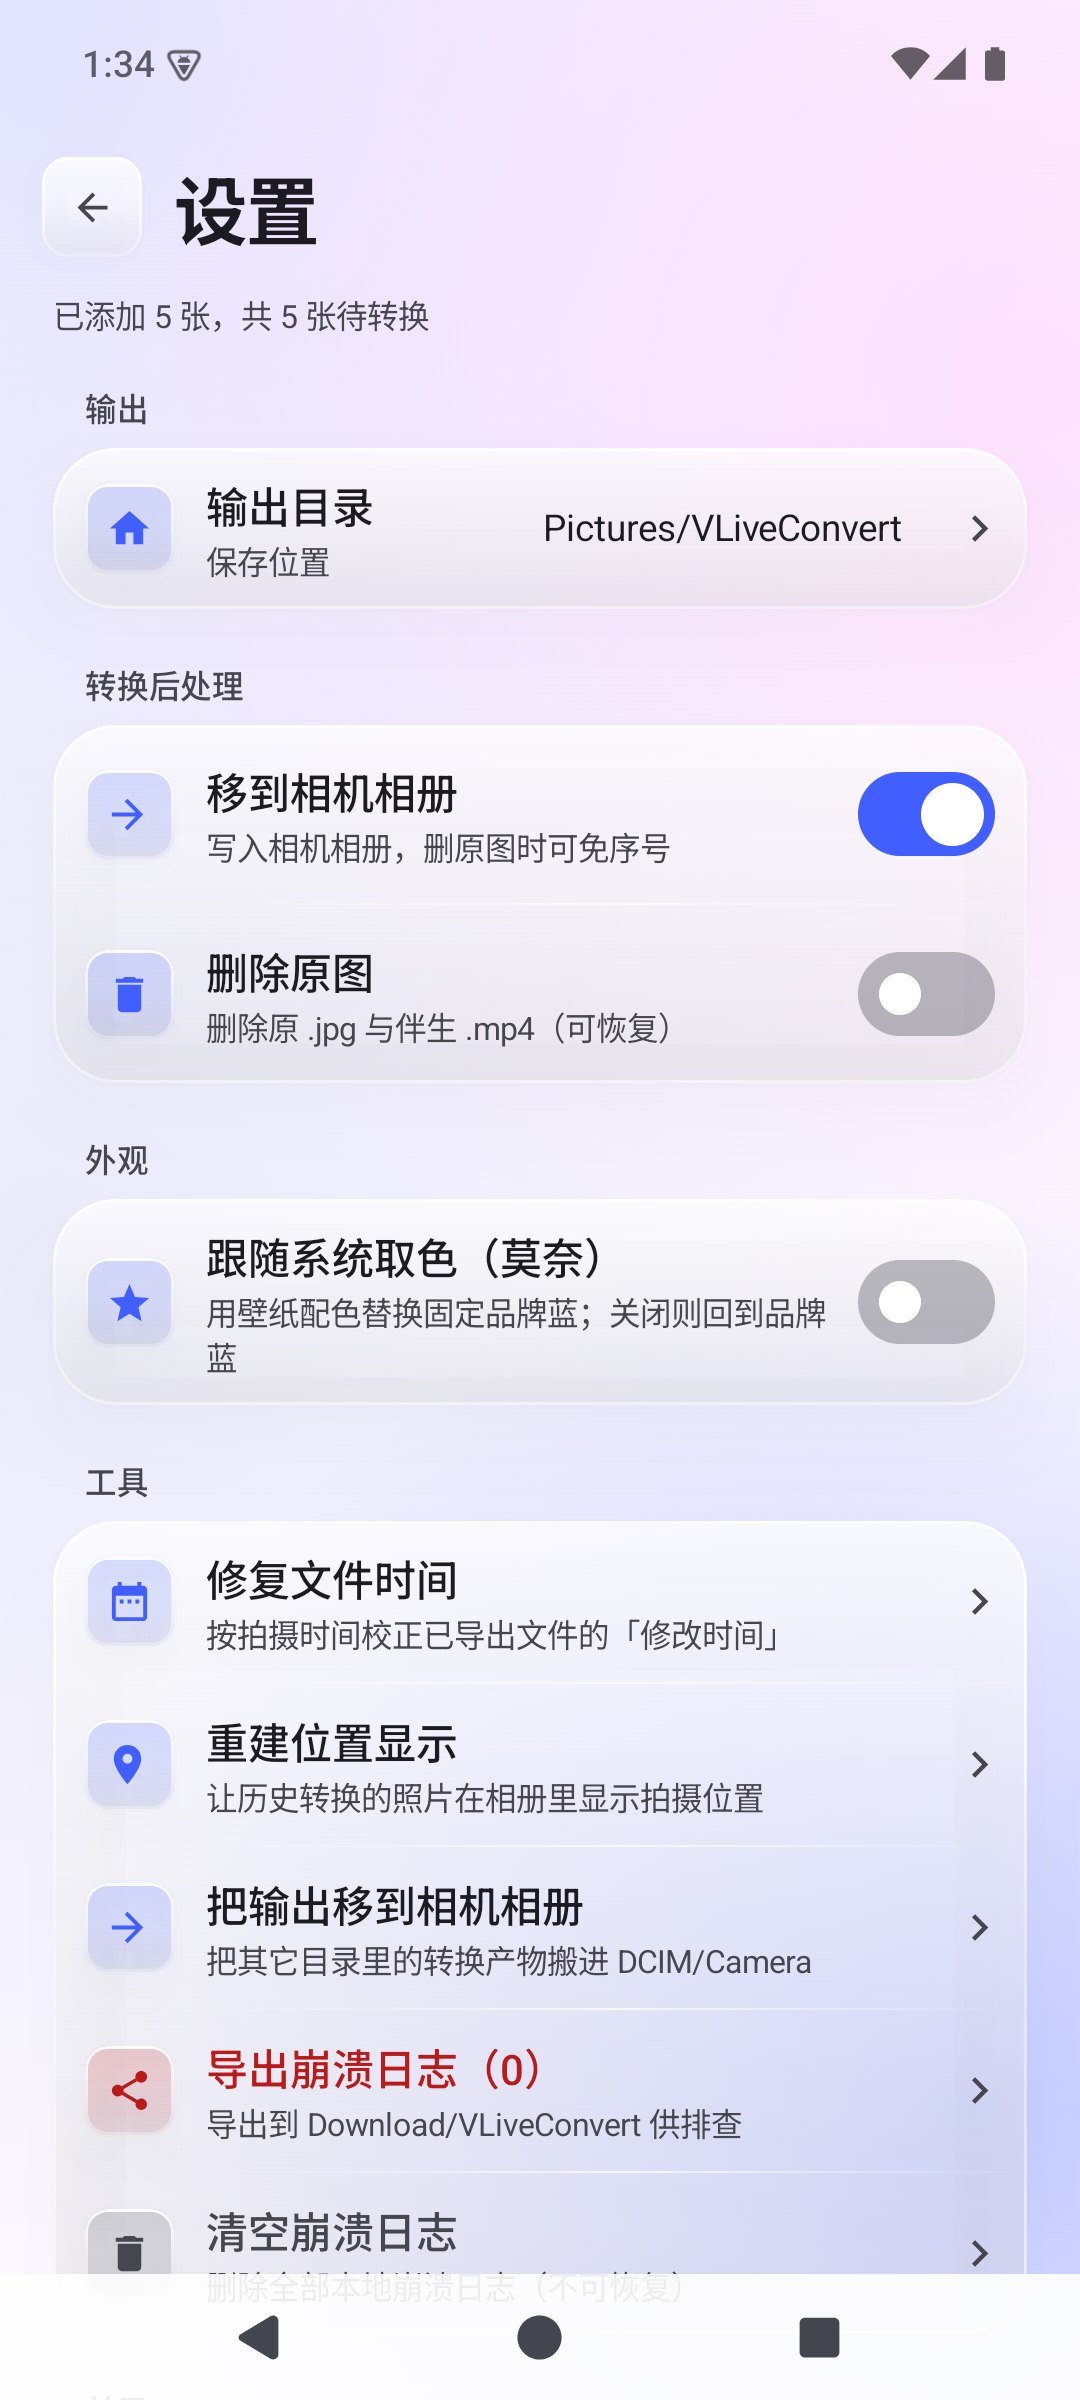
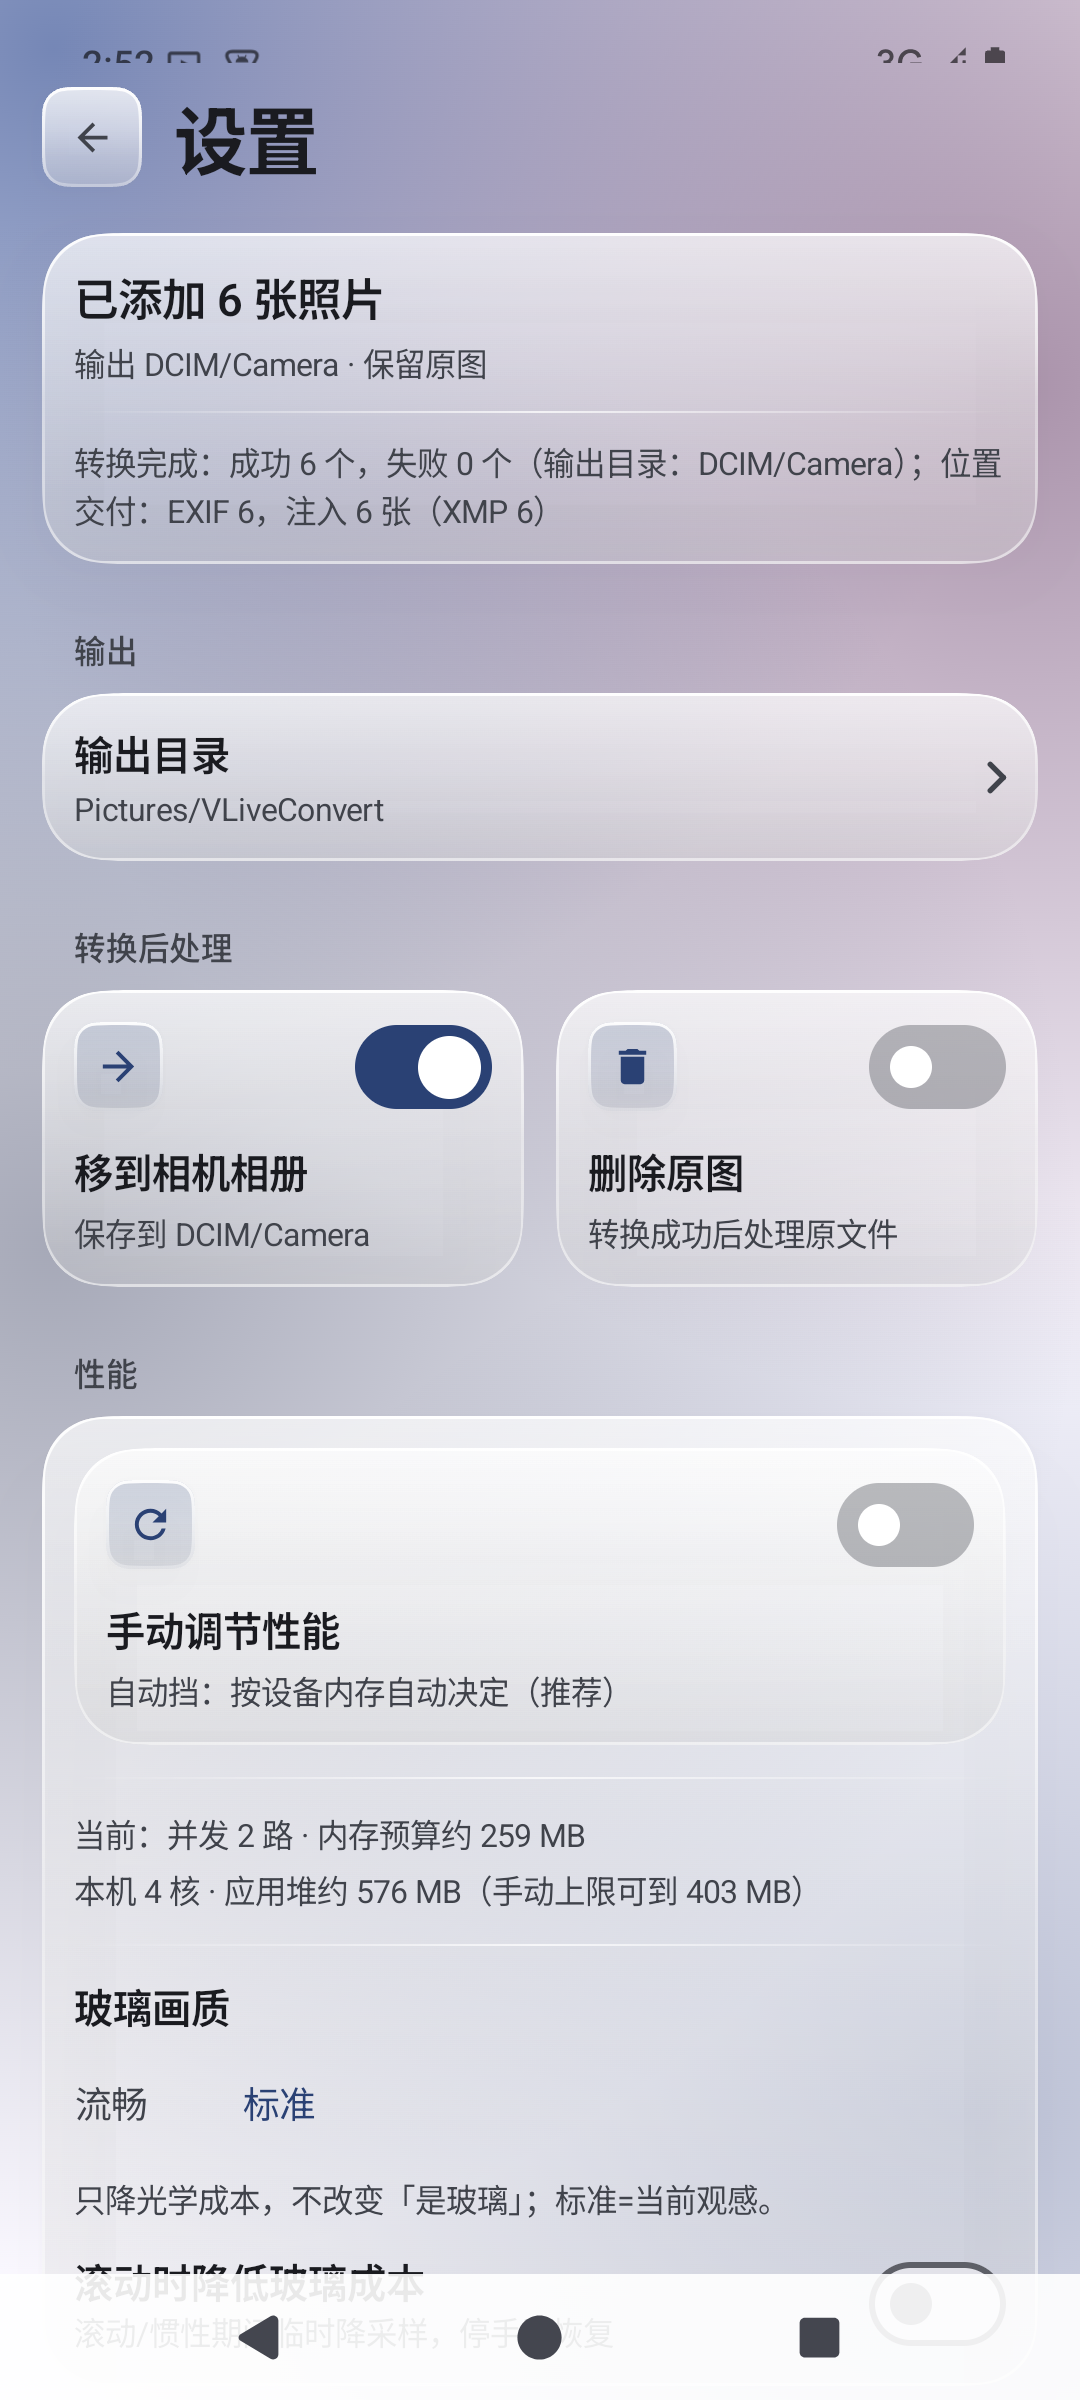
v2.8.0-test7：模拟器实拍 QA 收尾——修修复时间首进相册锁死 + README 九图按新 UI 重截
修复时间页真 bug（模拟器实拍发现）：openFixTime 先进页、相册异步后到，
currentBucketId 的 remember 未挂 albums key——首帧空列表把 bucketId 锁死在 null，
出现「顶部有相册胶囊、网格却显示没有可用相册」的矛盾态（进程内首次进入必现）。
挂上 albums key 后随相册到位自动选中首个相册。

docs/screenshots 九张全部按 v2.8.0 UI 模拟器实拍重截（README「与安装包同源」
承诺恢复）：主界面空态/列表/转换中、选择器（六张样张全选序号态）、设置、
修复时间（mtime 偏差修复项）、深色主列表/设置/输出目录弹窗。样张为
PIL 渐变风景画 + 完整 vivo 双文件结构（结构与 tools/make_location_fixtures
同源），六张全部被选择器识别为双文件实况；转换 6/6 成功且位置交付
（XMP 恢复→EXIF 注入）在模拟器实测通过。

版本：versionCode 128，versionName 2.8.0-test7。

diff --git a/app/src/main/java/com/vliveconvert/app/ui/FixTimeScreen.kt b/app/src/main/java/com/vliveconvert/app/ui/FixTimeScreen.kt
@@ -100,7 +100,9 @@ fun FixTimeScreen(
     onFix: (List<MediaItem>) -> Unit,
     hazeState: HazeState = rememberGlassHazeState()
 ) {
-    var currentBucketId by remember { mutableStateOf(albums.firstOrNull()?.bucketId) }
+    // 挂 albums key：openFixTime 先进页后异步查相册，首帧 albums 为空——
+    // 不挂 key 会把 bucketId 锁死在 null，出现「有相册胶囊却显示没有可用相册」的矛盾态
+    var currentBucketId by remember(albums) { mutableStateOf(albums.firstOrNull()?.bucketId) }
     val bucketId = currentBucketId
     val selected = remember { mutableStateListOf<MediaItem>() }
     val gridState = rememberLazyGridState()
